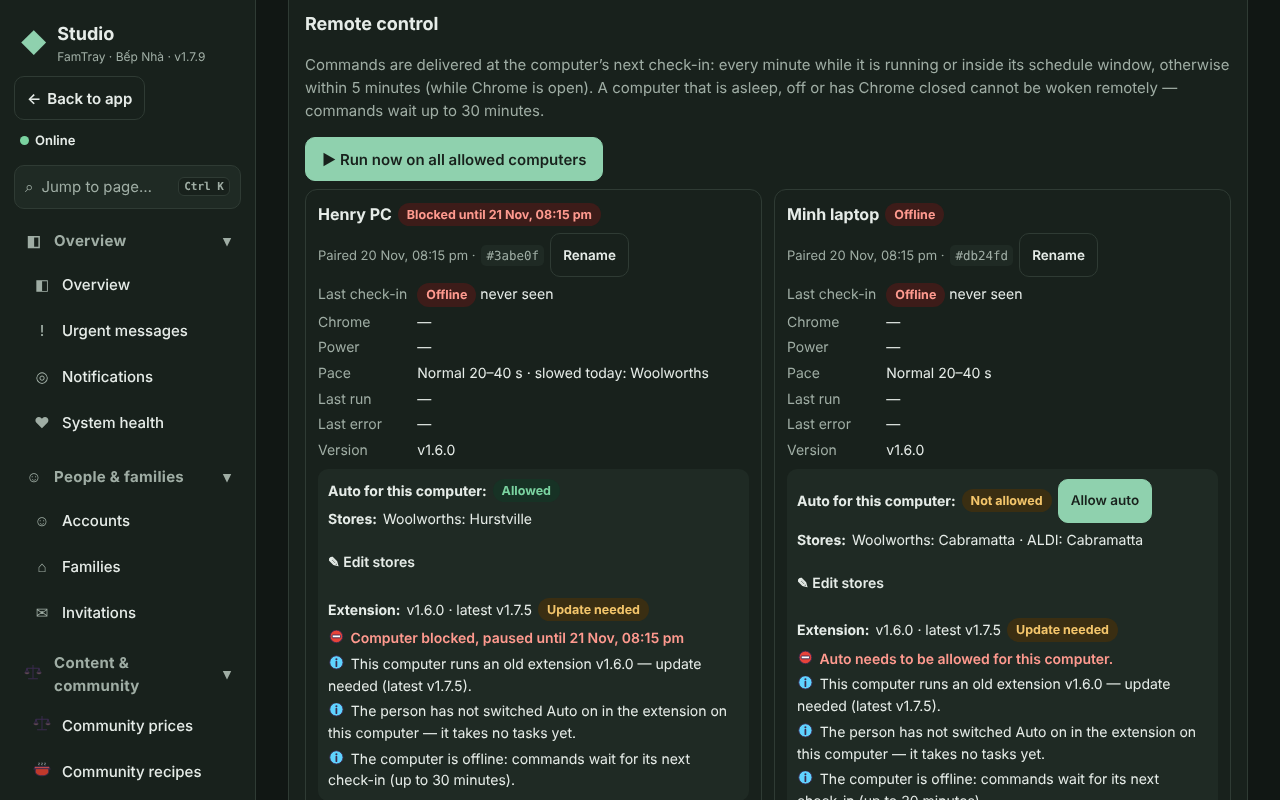
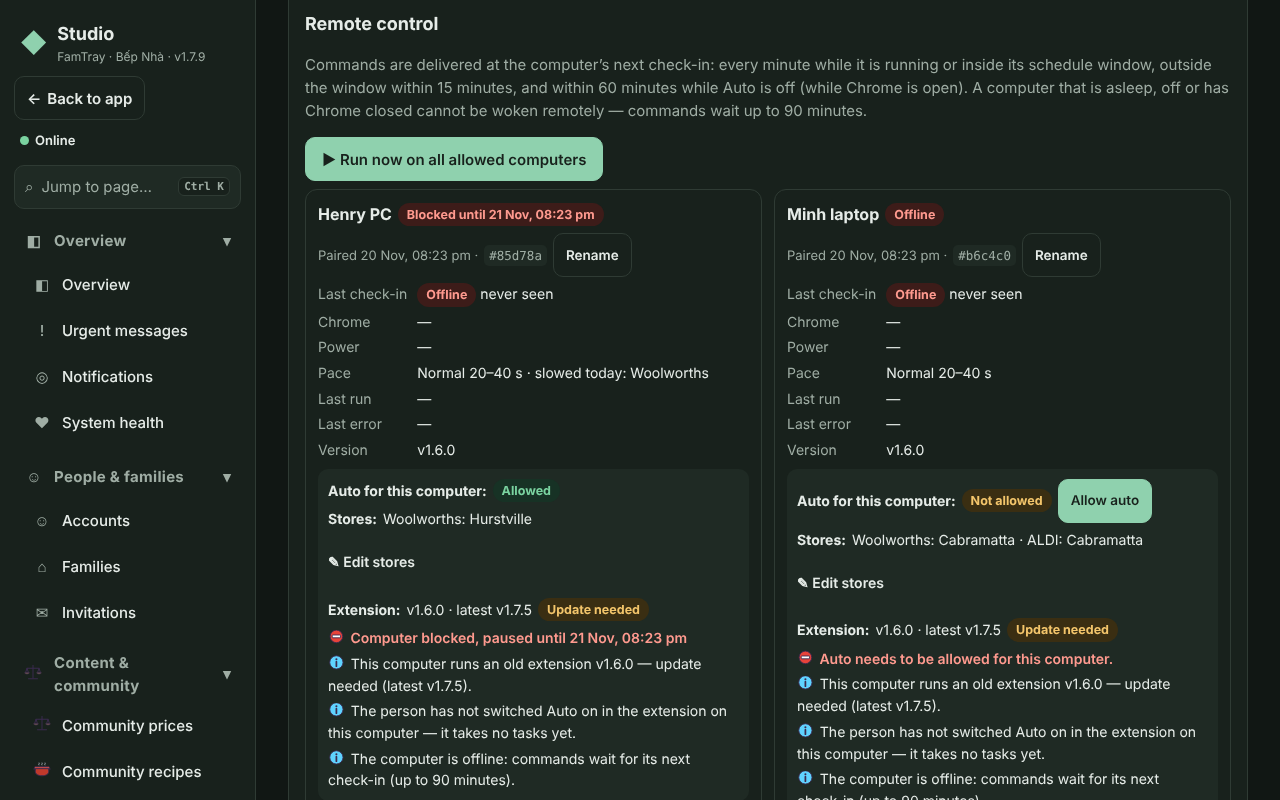
Check in as rarely as possible: 60 min with Auto off, 15 min outside the window
Henry, 20 Nov 2026 AEDT: turn Price Scout off and make the heartbeat longer.
- heartbeatEveryMin: 1 while running / Run now / commands waiting / inside the
  schedule window with Auto on; 15 outside the window; 60 with Auto off in
  Studio, on the computer, paused network or paused device.
- The interval given is kept on the device record; Studio's online rule uses
  it (two missed check-ins + 1 min; 1 minute for extensions up to 1.7.4).
- Studio commands wait up to 90 minutes; help texts updated.

Claude-Session: https://claude.ai/code/session_01ARvCQ93rkS9BsnTSnHUd61

diff --git a/src/frontend/studio-scout.ts b/src/frontend/studio-scout.ts
@@ -114,7 +114,7 @@ function readiness(d:any,s:any){const l=d.live||{},ver=l.version||d.version||nul
  else if(pi?.reasonIfEmpty){const m:any={'no-wanted-items':T('Lần chạy trước không có việc: chưa gia đình nào cần giá món nào ở các cửa hàng này. Không cần sửa — việc sẽ có khi danh sách mua sắm có món.','Last run had nothing to do: no family needs prices from these stores yet. Nothing to fix — tasks appear when shopping lists have items.'),'all-done':T('Lần chạy trước không còn việc: hôm nay đã kiểm tra hết. Chạy lại vào ngày mai.','Last run had nothing left: today’s checks are all done. Run again tomorrow.'),'retailer-paused':T('Lần chạy trước không có việc: cửa hàng của máy này đang tạm dừng (Sức khỏe trình đọc). Cách sửa: bấm Tiếp tục cho cửa hàng đó.','Last run had nothing to do: this computer’s stores are paused (Parser health). Fix: resume that retailer.'),cap:T('Lần chạy trước không có việc: đã đạt giới hạn trang hôm nay. Cách sửa: tăng giới hạn ở “Giới hạn & lịch mặc định” hoặc chờ ngày mai.','Last run had nothing to do: today’s page cap is reached. Fix: raise it in “Caps & default schedule” or wait for tomorrow.')};
   if(m[pi.reasonIfEmpty])why.push({text:m[pi.reasonIfEmpty],blocks:false})}
  if(d.autoEnabled===false)why.push({text:T('Người dùng chưa bật Tự động trong tiện ích trên máy này — máy chưa nhận việc.','The person has not switched Auto on in the extension on this computer — it takes no tasks yet.'),blocks:false});
- if(!l.online)why.push({text:T('Máy đang ngoại tuyến: lệnh chờ máy liên lạc lại (tối đa 30 phút).','The computer is offline: commands wait for its next check-in (up to 30 minutes).'),blocks:false});
+ if(!l.online)why.push({text:T('Máy đang ngoại tuyến: lệnh chờ máy liên lạc lại (tối đa 90 phút).','The computer is offline: commands wait for its next check-in (up to 90 minutes).'),blocks:false});
  return{why,blocked:why.some(w=>w.blocks),outdated,ver,latest,stores}}
 function readyHtml(d:any,r:any){const id=esc(d.id);
  return `<div class="rc-ready"><p class="rc-auto"><strong>${T('Tự động cho máy này','Auto for this computer')}:</strong> ${d.autoAllowed?chip('green',T('Đã cho phép','Allowed')):`${chip('amber',T('Chưa cho phép','Not allowed'))} <button class="btn small primary" type="button" data-allow-auto="${id}">${T('Cho phép tự động','Allow auto')}</button>`}</p>
@@ -133,7 +133,7 @@ function dupHtml(d:any){const p=d.possibleOld;if(!p)return '';
   <div class="row wrap"><button class="btn small primary" type="button" data-merge="${esc(d.id)}" data-into="${esc(p.newerId)}">${T('Gộp vào máy mới','Merge into the newer one')}</button><button class="btn small danger" type="button" data-dup-revoke="${esc(d.id)}">${T('Thu hồi','Revoke')}</button></div></div>`}
 function remoteHtml(devs:any[]){const s=data.settings,n=s.notify||{};
  return `<section class="card" aria-labelledby="sc-rc"><h2 id="sc-rc">${T('Điều khiển từ xa','Remote control')}</h2>
-  <p class="muted">${T('Lệnh được giao ở lần máy liên lạc tiếp theo: mỗi phút khi máy đang chạy hoặc trong khung giờ chạy, còn lại trong vòng 5 phút (khi Chrome đang mở). Máy đang ngủ, tắt hoặc đóng Chrome thì không thể đánh thức từ xa — lệnh chờ tối đa 30 phút.','Commands are delivered at the computer’s next check-in: every minute while it is running or inside its schedule window, otherwise within 5 minutes (while Chrome is open). A computer that is asleep, off or has Chrome closed cannot be woken remotely — commands wait up to 30 minutes.')}</p>
+  <p class="muted">${T('Lệnh được giao ở lần máy liên lạc tiếp theo: mỗi phút khi máy đang chạy hoặc trong khung giờ chạy, ngoài khung giờ trong vòng 15 phút, khi tắt tự động trong vòng 60 phút (khi Chrome đang mở). Máy đang ngủ, tắt hoặc đóng Chrome thì không thể đánh thức từ xa — lệnh chờ tối đa 90 phút.','Commands are delivered at the computer’s next check-in: every minute while it is running or inside its schedule window, outside the window within 15 minutes, and within 60 minutes while Auto is off (while Chrome is open). A computer that is asleep, off or has Chrome closed cannot be woken remotely — commands wait up to 90 minutes.')}</p>
   <div class="rc-btns"><button class="btn primary" type="button" id="sc-runall" ${s.autoScout!=='on'||s.paused?'disabled':''}>${T('▶ Chạy ngay mọi máy được phép','▶ Run now on all allowed computers')}</button></div>
   ${s.autoScout!=='on'?`<p class="note">${T('Chạy ngay cần bật chế độ tự động cho cả mạng.','Run now needs Auto mode switched on network-wide.')}</p>`:''}
   <div class="rc">${devs.map((d:any)=>{const l=d.live||{},rd=readiness(d,s);return `<article class="rc-dev" aria-labelledby="rc-${esc(d.id)}"><h3 id="rc-${esc(d.id)}">${esc(d.name)} ${stateText(l)}</h3>

diff --git a/extension/src/background.ts b/extension/src/background.ts
@@ -20,14 +20,15 @@ chrome.runtime.onInstalled.addListener(async(d:any)=>{const st=await chrome.stor
 chrome.runtime.onStartup.addListener(setup);
 // v1.7 remote control: the alarm fires every minute while Chrome runs (the chrome.alarms minimum), and the
 // extension checks in right away on startup/wake. 1.7.5: a routine check-in is sent only as often as the server
-// asks (`heartbeatEveryMin`: 1 while running, during the schedule window or with Studio commands waiting, else 5);
+// asks (`heartbeatEveryMin`: 1 while running, during the schedule window or with Studio commands waiting; 15 when Auto is
+// on but outside the window; 60 when Auto is off);
 // in between, the last answer is reused. Before, every computer checked in twice a minute all day.
 function setup(){chrome.alarms.create('scout-tick',{periodInMinutes:1});chrome.alarms.create('scout-heartbeat',{periodInMinutes:1});chrome.alarms.create('scout-flush',{periodInMinutes:1});SC.refreshConfig();heartbeat(true)}
 setup();
 try{chrome.idle.onStateChanged.addListener((s:string)=>{if(s==='active')heartbeat(true)})}catch{}
 
 var beating:Promise<any>|null=null;// var: setup() above calls heartbeat() before this line runs
-async function heartbeat(force=false){if(!force&&!beating){const st=await SC.get(['run','beatAt','beatEveryMin','device']);const every=Math.min(Math.max(Number(st.beatEveryMin)||5,1),15);
+async function heartbeat(force=false){if(!force&&!beating){const st=await SC.get(['run','beatAt','beatEveryMin','device']);const every=Math.min(Math.max(Number(st.beatEveryMin)||15,1),60);
   if(!st.run&&st.device&&st.beatAt&&Date.now()-st.beatAt<every*60000-5000)return st.device}
  beating=beating||beat().finally(()=>{beating=null});return beating}
 async function beat(){const st=await SC.get(['token','autoEnabled','semiEnabled','warnings','run','lastRun','blockedEvents','paused','battery','lastWhy','semiSites']);if(!st.token)return null;const online=await onlineOn(st.semiSites);
@@ -36,7 +37,7 @@ async function beat(){const st=await SC.get(['token','autoEnabled','semiEnabled'
  try{const view=await SC.api('heartbeat',{version:SC.version(),configVersion:(await SC.get(['config'])).config?.version||SC.BUILD.configVersion||null,autoEnabled:st.autoEnabled===true,semiEnabled:st.semiEnabled!==false,running:!!st.run,signedIn:st.warnings.signedIn,storesSeen:st.warnings.storesSeen,storeMismatch:st.warnings.storeMismatch,online,
    chromeOpen,idle,paused:st.paused===true,why:st.run?null:st.lastWhy||null,battery:st.battery||null,run:st.run?{pages:st.run.pages||0,prices:st.run.prices||0,startedAt:st.run.startedAt}:null,
    lastRun:lr?{at:lr.at,pages:lr.pages,prices:lr.prices,skipped:lr.skipped,errors:lr.errors||0,stop:lr.stop}:null,lastError:b?{at:b.at,retailer:b.retailer,kind:b.kind}:null});
-  const {commands,heartbeatEveryMin,...dev}=view,had=(await SC.get(['config'])).config?.version||null;await SC.set({device:dev,deviceAt:Date.now(),beatAt:Date.now(),beatEveryMin:Number(heartbeatEveryMin)||5});
+  const {commands,heartbeatEveryMin,...dev}=view,had=(await SC.get(['config'])).config?.version||null;await SC.set({device:dev,deviceAt:Date.now(),beatAt:Date.now(),beatEveryMin:Number(heartbeatEveryMin)||15});
   // Ask for the parser config only when the server has a different version than the one stored here.
   if(dev.configVersion&&dev.configVersion!==had)SC.refreshConfig();
   if(Array.isArray(commands)&&commands.length)await runCommands(commands);

diff --git a/extension/src/scout-client.ts b/extension/src/scout-client.ts
@@ -9,7 +9,7 @@ const BUILD=root.SCOUT_BUILD||{test:false,version:'0.0.0',configVersion:root.SCO
 const DEFAULTS={server:BUILD.server||'',token:'',deviceId:'',device:null,notAssigned:false,lang:'',theme:'auto',
  autoEnabled:false,semiEnabled:true,paused:false,semiSites:{woolworths:true,coles:true,aldi:true,chemist:true,amazon:true},
  lastRun:null,lastSemi:null,blockedEvents:[],warnings:{signedIn:{},storesSeen:{},storeMismatch:{}},onboarding:{profile:false,rewards:false,store:false},
- config:null,robotsCache:{},run:null,tabStatus:{},pendingSemi:[],testPacing:null,beatAt:0,beatEveryMin:5};
+ config:null,robotsCache:{},run:null,tabStatus:{},pendingSemi:[],testPacing:null,beatAt:0,beatEveryMin:15};
 async function get(keys?:string[]){const all=await chrome.storage.local.get(keys||null);const out:any={};for(const k of keys||Object.keys(DEFAULTS))out[k]=all[k]===undefined?structuredClone((DEFAULTS as any)[k]):all[k];return out}
 async function set(patch:any){await chrome.storage.local.set(patch)}
 function serverOk(s:string){try{const u=new URL(s);return u.protocol==='https:'||BUILD.test&&u.protocol==='http:'}catch{return false}}

diff --git a/docs/memory/decisions.md b/docs/memory/decisions.md
@@ -11,6 +11,11 @@ Newest first. All times are Sydney time. Standing rules live in `AGENTS.md`; thi
   inside the schedule window or with Studio commands waiting), and make each check-in cheaper on the server. Extension 1.7.5.
   Accepted effect: Studio sees an idle computer as online for up to 11 minutes after its last check-in, and Studio commands or
   setting changes reach an idle computer within 5 minutes instead of 1. Same gate: Henry says DEPLOY.
+- Later the same evening (about 20:40 AEDT), Henry: "Turn off price scout luôn đi nhưng sửa heartbeat lâu hơn để giảm tối thiểu".
+  Check-ins are now as rare as possible: 60 minutes while Auto is off (Studio, the computer or the network pause), 15 minutes when
+  Auto is on but outside the schedule window, every minute only while running, inside the window or with commands waiting.
+  Studio commands now wait up to 90 minutes; "online" = a check-in within two of the computer's own intervals.
+  Turning Scout off right now cannot be done from the agent's session (no Studio sign-in, no access to that computer); see Henry's to-dos.
 
 ## 14 Nov 2026 (about 21:00 AEDT, v1.7.21)
 - **More stores, step 2, now (Henry: "Làm luôn đi đừng chờ").** Do not wait for the 27 Nov 2026 device check in
@@ -113,6 +118,7 @@ Newest first. All times are Sydney time. Standing rules live in `AGENTS.md`; thi
 ## Henry's to-dos (things only he can do)
 - ~~Update the henry-master skill on claude.ai~~ done by Henry, 13 Nov 2026.
 - SCOUT_EXTENSION_IDS setting; the duplicate device; the Web Store link.
+- **Now (20 Nov 2026):** turn Price Scout off on the Windows computer: chrome://extensions → switch off "FamTray So Giá" (or Studio → So Giá → the device → Thu hồi, which makes the extension forget its pairing and stop calling; it needs pairing again later). Also Studio → Settings → Auto off.
 - After DEPLOY of the 20 Nov compute fix: update the So Giá extension to 1.7.5 on the Windows computer (Studio shows "Cần cập nhật" until then). That computer sends two check-ins at the same second each minute, so it probably has two copies paired (two Chrome profiles): remove the one not used.
 - Re-enter the Mỳ Quảng amounts; the iPhone voice self-check.
 - Pinch / WhichGrocer terms e-mails. The integration plan is not yet approved.
